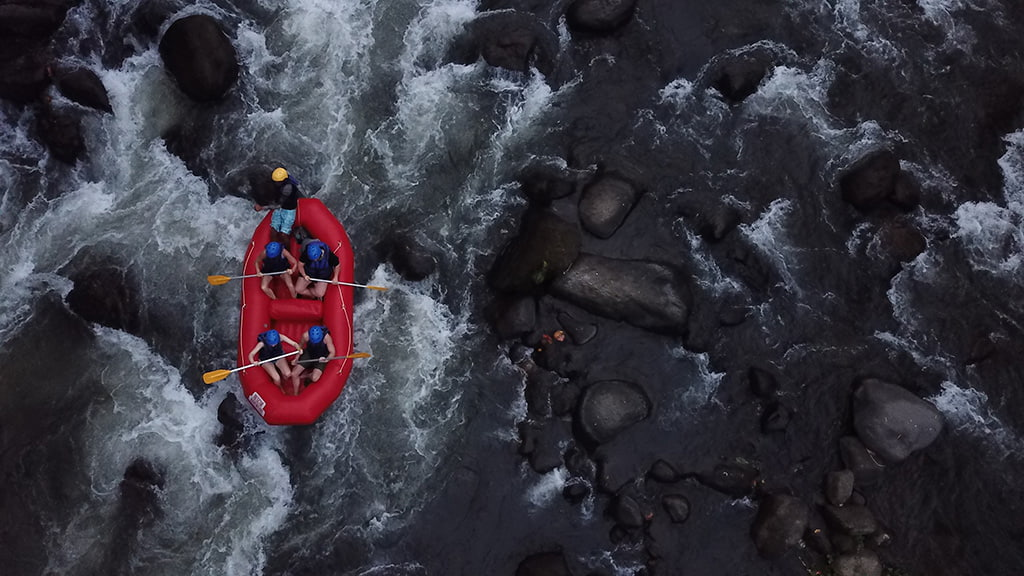
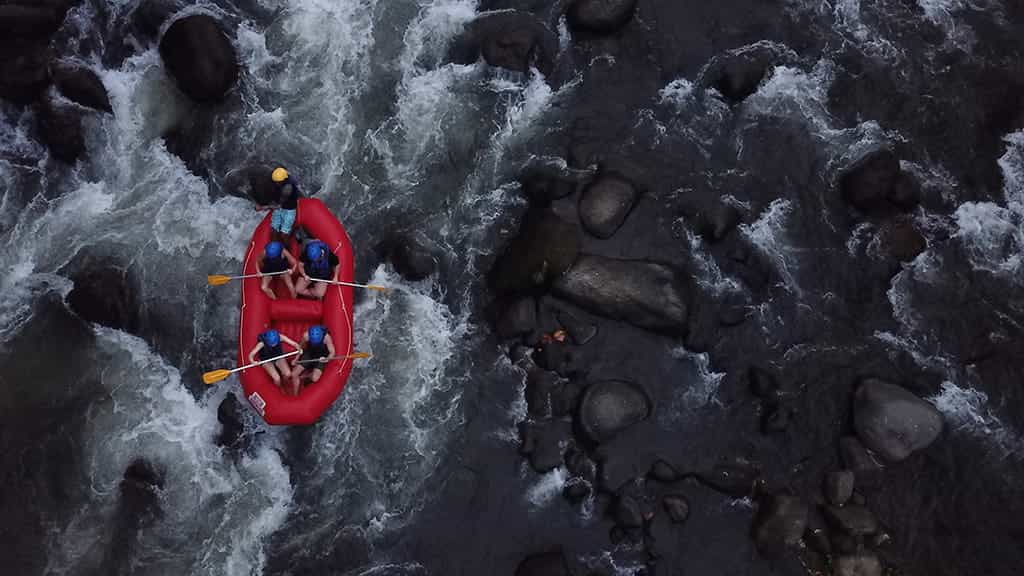
finished week 4 project

diff --git a/wwr/styles/rafting.css b/wwr/styles/rafting.css
@@ -27,15 +27,15 @@ footer {
 
 }
 
+
 header {
     display: grid;
     grid-template-columns: max-content 1fr;
     align-items: center;
-    background-color: var(--accent2-color);
     border: 1px solid var(--secondary-color);
     padding: 10px 20px;
-    margin-bottom: 20px;
-    background-color: var(--accent1-color);
+    margin-bottom: 10px;
+    background-color: var(--accent1-color)
 }
 
 header img {
@@ -91,6 +91,7 @@ article {
 .socialmedia a {
     text-decoration: none;
     display: inline-block;
+    border: none;
 }
 
 .socialmedia img {
@@ -101,14 +102,15 @@ article {
 
 .hero {
     position: relative;
-    margin-bottom: 55px;
+    margin-bottom: 10px;
+    
 
 }
 
 .hero img {
     display: block;
     width: 100%;
-    height: auto;
+    height: auto; /*this is to modify the size of the Z splash image*/
 }
 
 h1 {
@@ -122,11 +124,13 @@ h1 {
     color: #f1f5f9;
 }
 
-.hero article {
+.hero article { 
     position: absolute;
+    
     top: 350px;
     opacity: 0.7;
     background-color: var(--accent1-color)
+    
 }
 
 article p {
@@ -155,17 +159,18 @@ footer p {
     max-width: 950px;
     width: 100%;
     padding: 20px;
-    margin: 40px auto;
+    margin:  0px auto;
     background-color: var(--accent1-color);
     border: 1px solid #000000;
     color: var(--accent2-color);
+
 }
 
 .history-section h2 {
     grid-column: 1 / span 3;
     text-align: center;
-    margin-top: 0px;
-    margin-bottom: 0px;
+    margin-top: 0;
+    margin-bottom: px;
     color: var(--accent2-color);
 
 }
@@ -177,6 +182,38 @@ footer p {
     margin: 0 auto;
 }
 
-.history-section p {
-    padding: 0 15px;
+.adventures-section h2 {
+    text-align: center;
+    grid-column: 1 / span 5;
+    color: var(--accent2-color);
 }
+.adventures-section {
+    display: grid;
+    gap: 15px;
+    text-align: center;
+    border: 1px solid black;
+    box-sizing: border-box;
+    margin: 0;
+    margin-top: 10px;
+    background-color: var(--accent1-color);
+    color: var(--accent2-color);
+    
+}
+
+.adventures-section img {
+    width: 100%;
+    height: 150px;
+    object-fit: cover;
+}
+
+
+footer {
+    display: flex;
+    justify-content: space-between;
+    align-items: center;
+    height: 80px;
+    margin: 10px auto;
+    border-top: 5px solid ;
+    
+}
+

diff --git a/wwr/about.html b/wwr/about.html
@@ -28,6 +28,7 @@
             <img src="images/main-rafting.jpg" alt="People Rafting">
             <h1>Z-SPLASH</h1>
             <article>
+                <img src="images/river-bend.jpg" alt="">
                 <p>Lorem ipsum dolor sit amet consectetur adipisicing elit. Consectetur sapiente
                     esse facilis, inventore at beatae accusamus omnis laborum enim voluptatem nobis
                     sunt! Aperiam officiis rem veritatis pariatur sunt veniam autem!</p>
@@ -44,9 +45,33 @@
                 perferendis sed minus possimus dolores ipsum hic voluptatum voluptatibus nesciunt
                 aliquid at blanditiis ducimus quos rerum.</p>
         </section>
-        <section>
+        <section class="adventures-section">
             <h2>Adventure Awaits You!</h2>
 
+            <figure>
+                <img src="images/big-mallard.jpg" alt="Big Mallard rapid">
+                <figcaption>Big Mallard</figcaption>
+            </figure>
+
+            <figure>
+                <img src="images/los-dientes-del-diablo.jpg" alt="Los Dientes del Diablo rapid">
+                <figcaption>Los Dientes del Diablo</figcaption>
+            </figure>
+
+            <figure>
+                <img src="images/ half-day-adventure.jpg" alt="Half Day Adventure rafting">
+                <figcaption>Half Day Adventure</figcaption>
+            </figure>
+
+            <figure>
+                <img src="images/shotgun-rapid.jpg" alt="Shotgun rapid">
+                <figcaption>Shotgun Rapid</figcaption>
+            </figure>
+
+            <figure>
+                <img src="images/canyon-cruiser.jpg" alt="Canyon Cruiser">
+                <figcaption>Canyon Cruiser</figcaption>
+            </figure>
 
         </section>
     </main>
